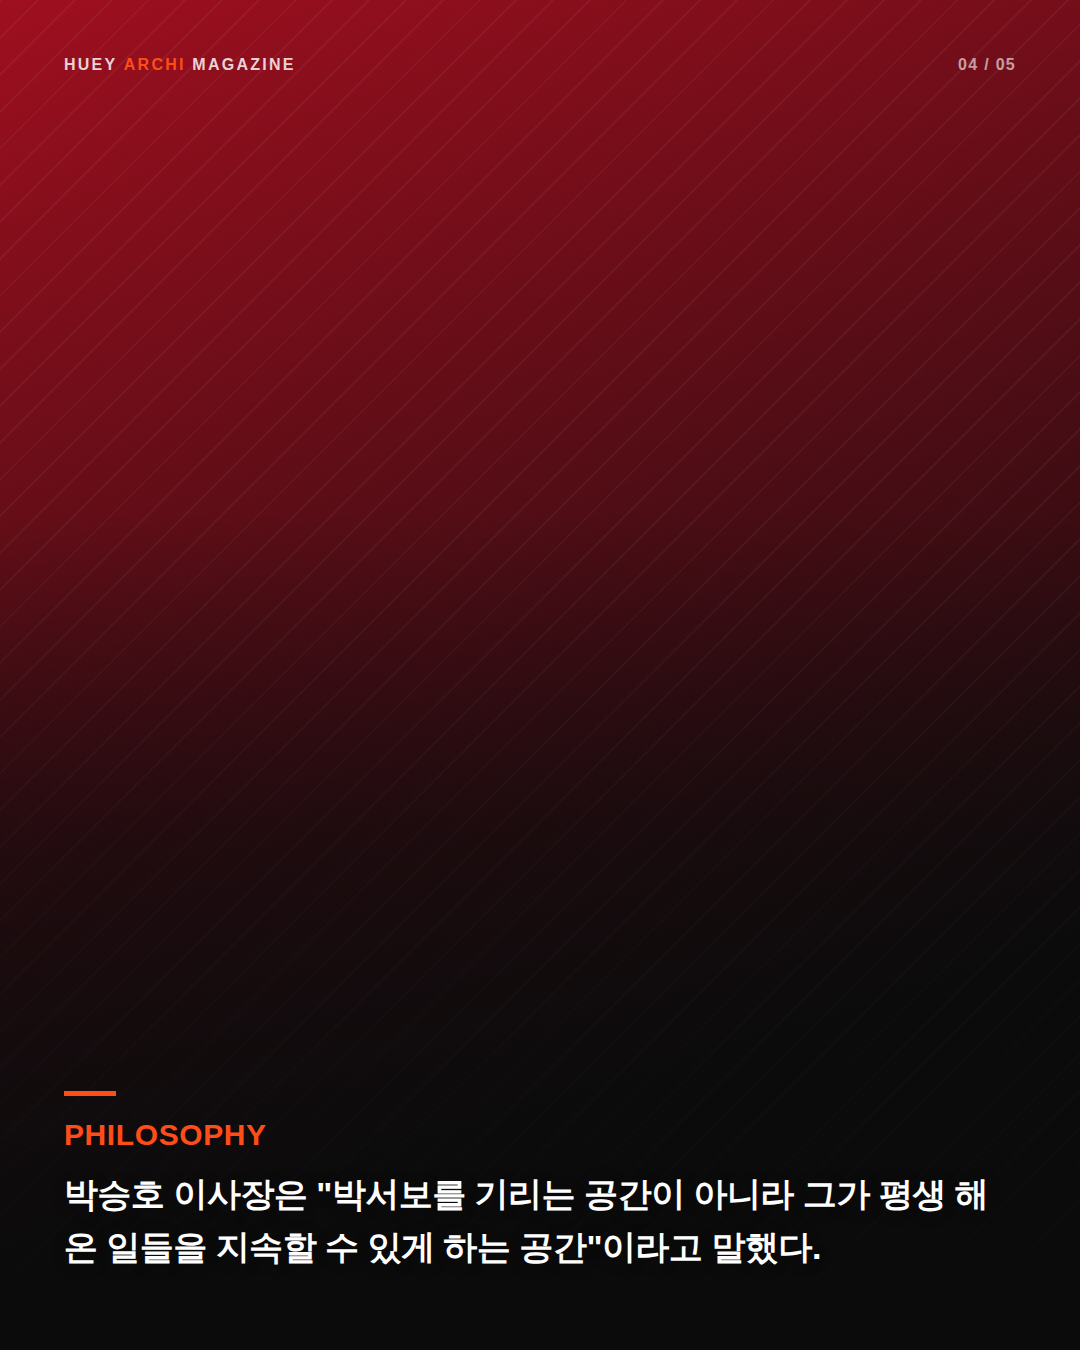
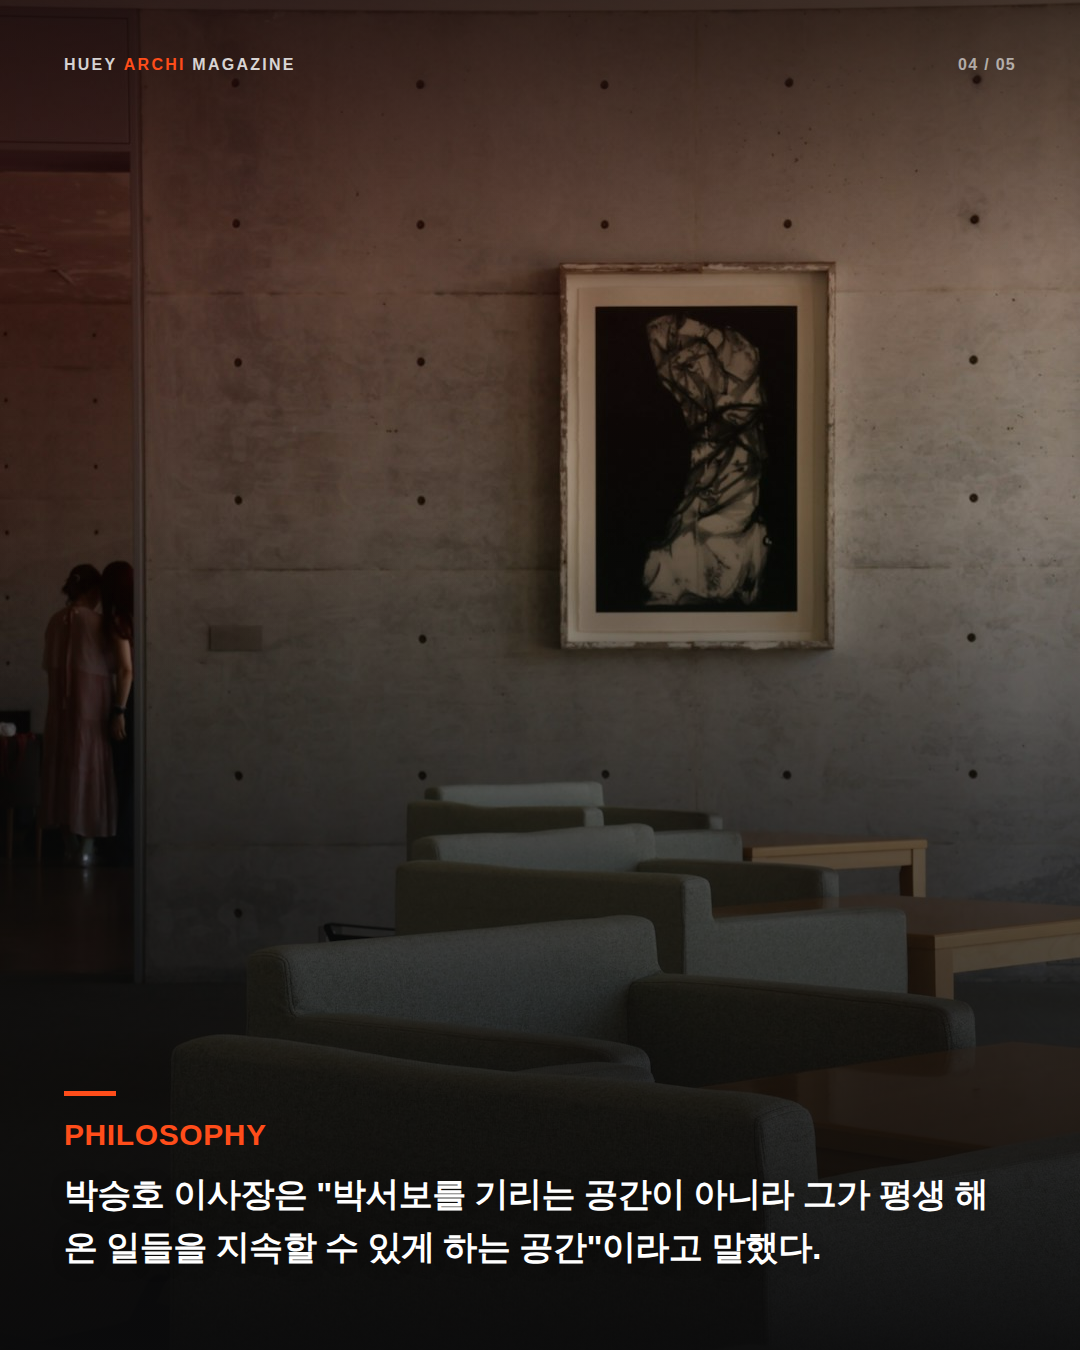
카드뉴스 배경에 Unsplash 사진 지원 추가 (photo_query 필드, 코드+문서)

diff --git a/CLAUDE.md b/CLAUDE.md
@@ -250,7 +250,8 @@ python3 render.py <날짜>     # 웹페이지(타일·상세페이지) 생성
     "ref": { "section": "top" },                 // 원본 기사 위치 — 출처·원문 링크를 여기서 가져온다
     // ref.section: "top" | "side" | "intl_feature" | "intl_grid" | "korea" | "briefs"
     // top/side가 아니면 "index"(0-based)도 같이 적는다: { "section": "korea", "index": 0 }
-    "bg": 0,                                      // 배경 그래픽 0~2 (cardnews.py BACKGROUNDS 참조)
+    "bg": 0,                                      // 배경 그래픽 0~2 (photo_query 없을 때 폴백, cardnews.py BACKGROUNDS 참조)
+    "photo_query": "temple wood restoration",     // 선택. 영문 검색어 — Unsplash에서 사진 검색해 배경으로 씀
     "slides": [
       // 슬라이드[0] = 표지. heading은 큰 제목(\n으로 줄바꿈), body는 부제 한 줄.
       { "heading": "강남 한복판에\n뜨는 49층 타워", "body": "스튜디오 리베스킨드가 그린 대치쌍용의 새 얼굴" },
@@ -265,9 +266,14 @@ python3 render.py <날짜>     # 웹페이지(타일·상세페이지) 생성
   (표지 1장 + 핵심 포인트별 3~6장 권장).
 - `ref`가 가리키는 기사는 `data/<날짜>.json` 안에 **이미 존재해야** 한다 — 카드뉴스는 새 취재가
   아니라 그날 지면 기사 중 하나를 다시 편집한 것.
-- 배경은 사진이 아니라 `cardnews.py`가 생성하는 브랜드 그래픽(블랙·딥레드·포인트레드 추상
-  패턴)이다 — 매체 사진을 카드뉴스 배경으로 캡처해 쓰지 않는다(핫링크가 아니라 이미지를
-  그대로 복제해 재배포하는 셈이라 저작권 리스크가 사이트 임베딩보다 훨씬 크다).
+- 배경 사진은 **Unsplash**에서만 가져온다. 각 항목에 영문 검색어를 `photo_query`로 채우면
+  `cardnews.py`가 Unsplash API로 검색해 배경으로 쓰고, 표지 하단에 촬영자 크레딧
+  ("ⓒ 이름 / Unsplash")을 자동으로 남긴다. `UNSPLASH_ACCESS_KEY` 환경변수가 필요하며,
+  키가 없거나 검색 결과가 없으면 `bg`로 지정한 브랜드 그래픽(블랙·딥레드·포인트레드 추상
+  패턴)으로 자동 폴백한다. **매체(Dezeen·ArchDaily 등) 사진은 여전히 카드뉴스 배경으로 쓰지
+  않는다** — 핫링크가 아니라 이미지를 그대로 복제해 재배포하는 셈이라 저작권 리스크가
+  사이트 임베딩보다 훨씬 크다. Unsplash는 라이선스상 출처 표기 없이도 재배포·상업적 이용이
+  자유로워 이 리스크가 없다.
 - 카드뉴스가 없는 날은 `cardnews` 필드를 아예 생략하면 된다 — 섹션 자체가 안 보인다.
 
 ---
